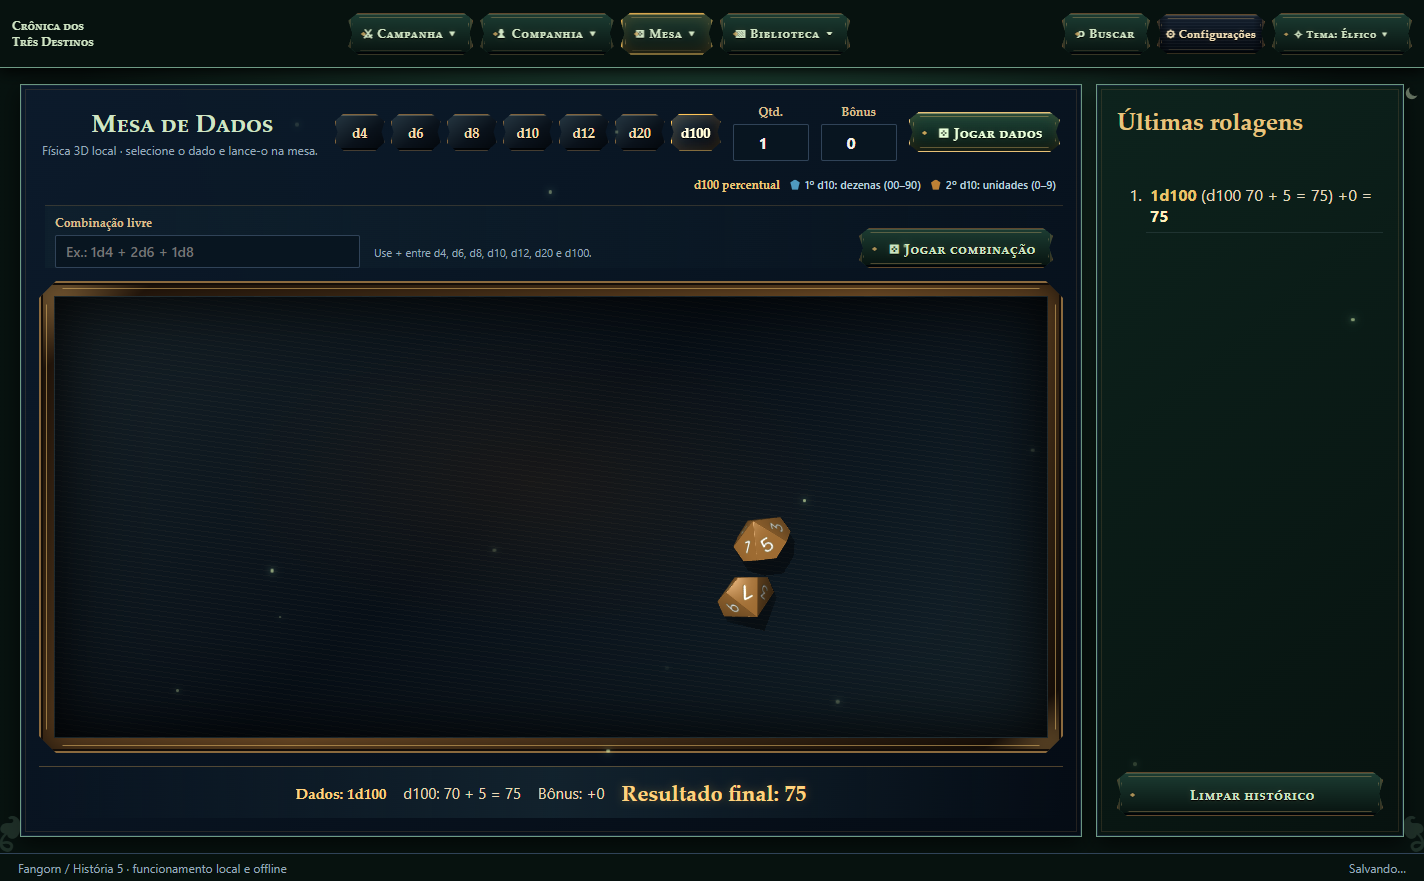
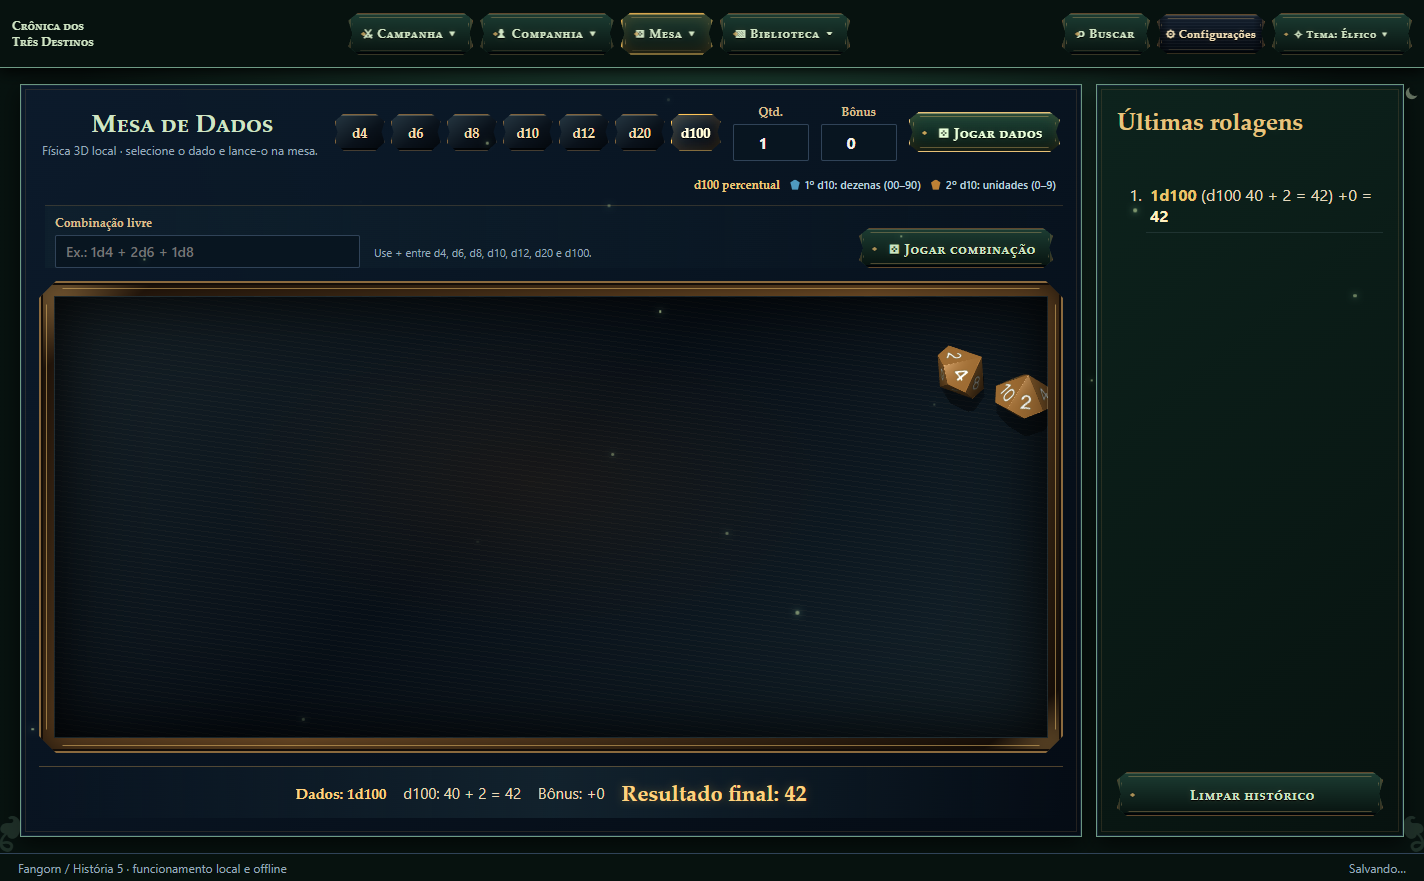
docs: record verified Windows Intel and Apple Silicon desktop QA

diff --git a/docs/QA_PLATAFORMA_V4.md b/docs/QA_PLATAFORMA_V4.md
@@ -26,9 +26,25 @@ Ambiente local: Windows 11, Edge headless e Electron 45.2.3, perfis de teste sep
 
 Resultados estruturados: `qa-platform-v4/browser-report.json`, `formats-report.json`, `desktop-report.json`, `desktop-import-report.json`, `effects/report.json`, `themes/report.json`, `dice/report.json`. Os scripts estão em `tests/`; bibliotecas de teste estão fixadas em `package.json`/`pnpm-lock.yaml`.
 
+## Builds e testes em cada plataforma
+
+Execução [Desktop installers 42041203893](https://github.com/RhuanLUX/Masterdashboard/actions/runs/42041203893), commit de implementação `c1f1987`, concluída com sucesso nos três ambientes:
+
+| Ambiente | Build | Aplicativo empacotado | DOCX, PDF e OCR locais |
+|---|---|---|---|
+| Windows x64 | Instalador NSIS gerado | Persistência/reabertura, arena Pixi, apresentação e d100 passaram | Passaram |
+| macOS Intel x64 | DMG gerado em runner Intel | Persistência/reabertura, arena Pixi, apresentação e d100 passaram | Passaram |
+| macOS Apple Silicon arm64 | DMG gerado em runner arm64 | Persistência/reabertura, arena Pixi, apresentação e d100 passaram | Passaram |
+
+Os testes também passaram antes do empacotamento. Resultado da API do GitHub registrado em `qa-platform-v4/ci-report.json`. Cada artefato da execução contém o instalador, capturas reais e os relatórios desktop/importação de sua arquitetura. As evidências Mac também foram baixadas para `qa-platform-v4/macOS-x64/` e `qa-platform-v4/macOS-arm64/`; os três instaladores estão na pasta local `dist/`. Artefatos de Actions têm retenção de 14 dias; preserve uma cópia dos instaladores.
+
+As capturas de sessão, importação e arena Mac foram inspecionadas. No display público, o goblin permanece oculto porque o teste não o revela ao jogador; a imagem do mestre contém ambos os participantes. O runner Apple Silicon limita a janela à sua área de trabalho menor, com rolagem disponível. A matriz de 1920×1080 / 1366×768 / 1280×800 foi exercitada no navegador Windows.
+
+Na primeira execução remota, o build Windows tentou publicar uma release automaticamente sem token; o instalador havia sido gerado, mas o job falhou. O build foi corrigido para `--publish never`. O encerramento após salvar no Mac também foi corrigido para concluir o pedido de sair do aplicativo, sem depender do comportamento Windows de fechar a última janela. A execução acima testa ambas as correções.
+
 ## Limites de aceite
 
-O ambiente local não é macOS. O projeto inclui empacotamento Intel/Apple Silicon e workflow em runner macOS; a situação dos artefatos e desse teste remoto deve ser consultada no GitHub. Um build não equivale a teste presencial em ambos os tipos de Mac. Sem assinatura Windows e sem certificado/notarização Apple nesta entrega.
+Os testes Mac foram automatizados em runners nativos de cada arquitetura, com capturas do aplicativo real; não houve teste presencial do mestre nesses computadores. O arraste pelo Finder e o assistente NSIS/desinstalação não passaram por teste manual. Windows 10 não foi executado diretamente nesta rodada. Sem assinatura de editor Windows e sem certificado/notarização Apple nesta entrega; os pacotes Mac usam assinatura técnica ad-hoc.
 
 OCR, colunas/tabelas complexas de PDF e recursos exóticos do Word exigem conferência. O arquivo original permanece preservado. Não há IA remota, geração automática de arte ou inventário de regras criado por inferência.
 

diff --git a/docs/GUIA_PLATAFORMA_V4.md b/docs/GUIA_PLATAFORMA_V4.md
@@ -4,7 +4,7 @@
 
 **Windows:** abra `RPG-Master-4.0.0-Windows-x64.exe`, escolha a pasta de instalação e use o atalho **RPG Master**. O aplicativo inclui seu próprio navegador; não exige Node.js, Python, servidor ou internet no computador do jogador. Os dados ficam fora da pasta de instalação.
 
-**macOS:** o projeto gera dois DMGs, para Intel (`x64`) e Apple Silicon (`arm64`), pelo workflow **Desktop installers** do GitHub ou por `pnpm dist:mac` em um Mac. Arraste RPG Master para Aplicativos. Consulte o relatório de QA para saber quais builds e sistemas foram efetivamente testados. O pacote ainda não possui assinatura de desenvolvedor ou notarização Apple.
+**macOS:** há dois pacotes DMG, para Intel (`x64`) e Apple Silicon (`arm64`), gerados pelo workflow **Desktop installers** do GitHub ou por `pnpm dist:mac` em um Mac. Arraste RPG Master para Aplicativos. Consulte o relatório de QA para saber quais builds e sistemas foram efetivamente testados. O pacote usa assinatura técnica ad-hoc; ainda não possui certificado de desenvolvedor ou notarização Apple.
 
 **Pasta do projeto, sem instalar:** use somente `INICIAR_RPG.bat` no Windows ou `INICIAR_RPG.command` no macOS. O iniciador abre `http://127.0.0.1:41731/` quando o servidor está pronto. Não abra `index.html` diretamente: os workers e os dados 3D precisam do servidor ou do aplicativo. No macOS, o modo navegador requer Node.js ou Python 3; o `.command` pode precisar de `chmod +x INICIAR_RPG.command` uma vez.
 

diff --git a/README_ARQUITETURA.md b/README_ARQUITETURA.md
@@ -31,7 +31,7 @@ pnpm dist:mac
 
 `vendor/import/` já está versionado. Para regenerar: `pnpm vendor`. Licenças estão na mesma pasta. `tools/build-icon.cjs` rasteriza o ícone vetorial original para os formatos de empacotamento. Para QA no navegador Windows: `node tests/platform-browser.cjs`. Para desktop em perfil isolado: `node tests/desktop-smoke.cjs`; use a variável `RPG_TEST_EXE` para testar o executável empacotado.
 
-O workflow manual **Desktop installers** usa runners Windows/macOS, testes de núcleo e smoke desktop, e publica os instaladores como artefatos de Actions. Builds não recebem assinatura/notarização sem certificados configurados. `dist/` e perfis QA não entram no Git.
+O workflow manual **Desktop installers** usa runners Windows, Mac Intel e Apple Silicon separados. Testa núcleo, persistência, arena, dados e importação/OCR tanto em desenvolvimento quanto no aplicativo empacotado; publica instaladores como artefatos de Actions. Não cria releases automaticamente. O Mac recebe assinatura técnica ad-hoc para executar o pacote, sem certificado de desenvolvedor nem notarização Apple; o Windows não recebe assinatura de editor. `dist/` e perfis QA não entram no Git.
 
 ## Migração
 

diff --git a/README_USO.md b/README_USO.md
@@ -2,6 +2,8 @@
 
 No Windows, instale o arquivo **RPG-Master-4.0.0-Windows-x64.exe** da pasta `dist/` e abra o atalho RPG Master. Ele inclui todos os recursos locais, sem exigir Node.js ou Python.
 
+No Mac, abra **RPG-Master-4.0.0-macOS-arm64.dmg** (Apple Silicon) ou **RPG-Master-4.0.0-macOS-x64.dmg** (Intel) e arraste o app para Aplicativos. Os instaladores também estão nos artefatos do [build verificado](https://github.com/RhuanLUX/Masterdashboard/actions/runs/42041203893). São builds sem certificado de editor/notarização; veja os limites no relatório de QA.
+
 Para executar direto da pasta: use apenas **INICIAR_RPG.bat** (Windows) ou **INICIAR_RPG.command** (macOS). O servidor e o navegador abrem juntos no endereço fixo `http://127.0.0.1:41731/`. Não é necessário abrir outro arquivo. O modo navegador no macOS requer Python 3 ou Node.js; os pacotes desktop incluem o runtime.
 
 **Antes de trocar do navegador para o instalável, exporte um backup em Configurações e importe-o no aplicativo.** Os dois armazenamentos são separados. Versões antigas podiam salvar em outra porta local: exporte pelo endereço onde suas alterações aparecem.
